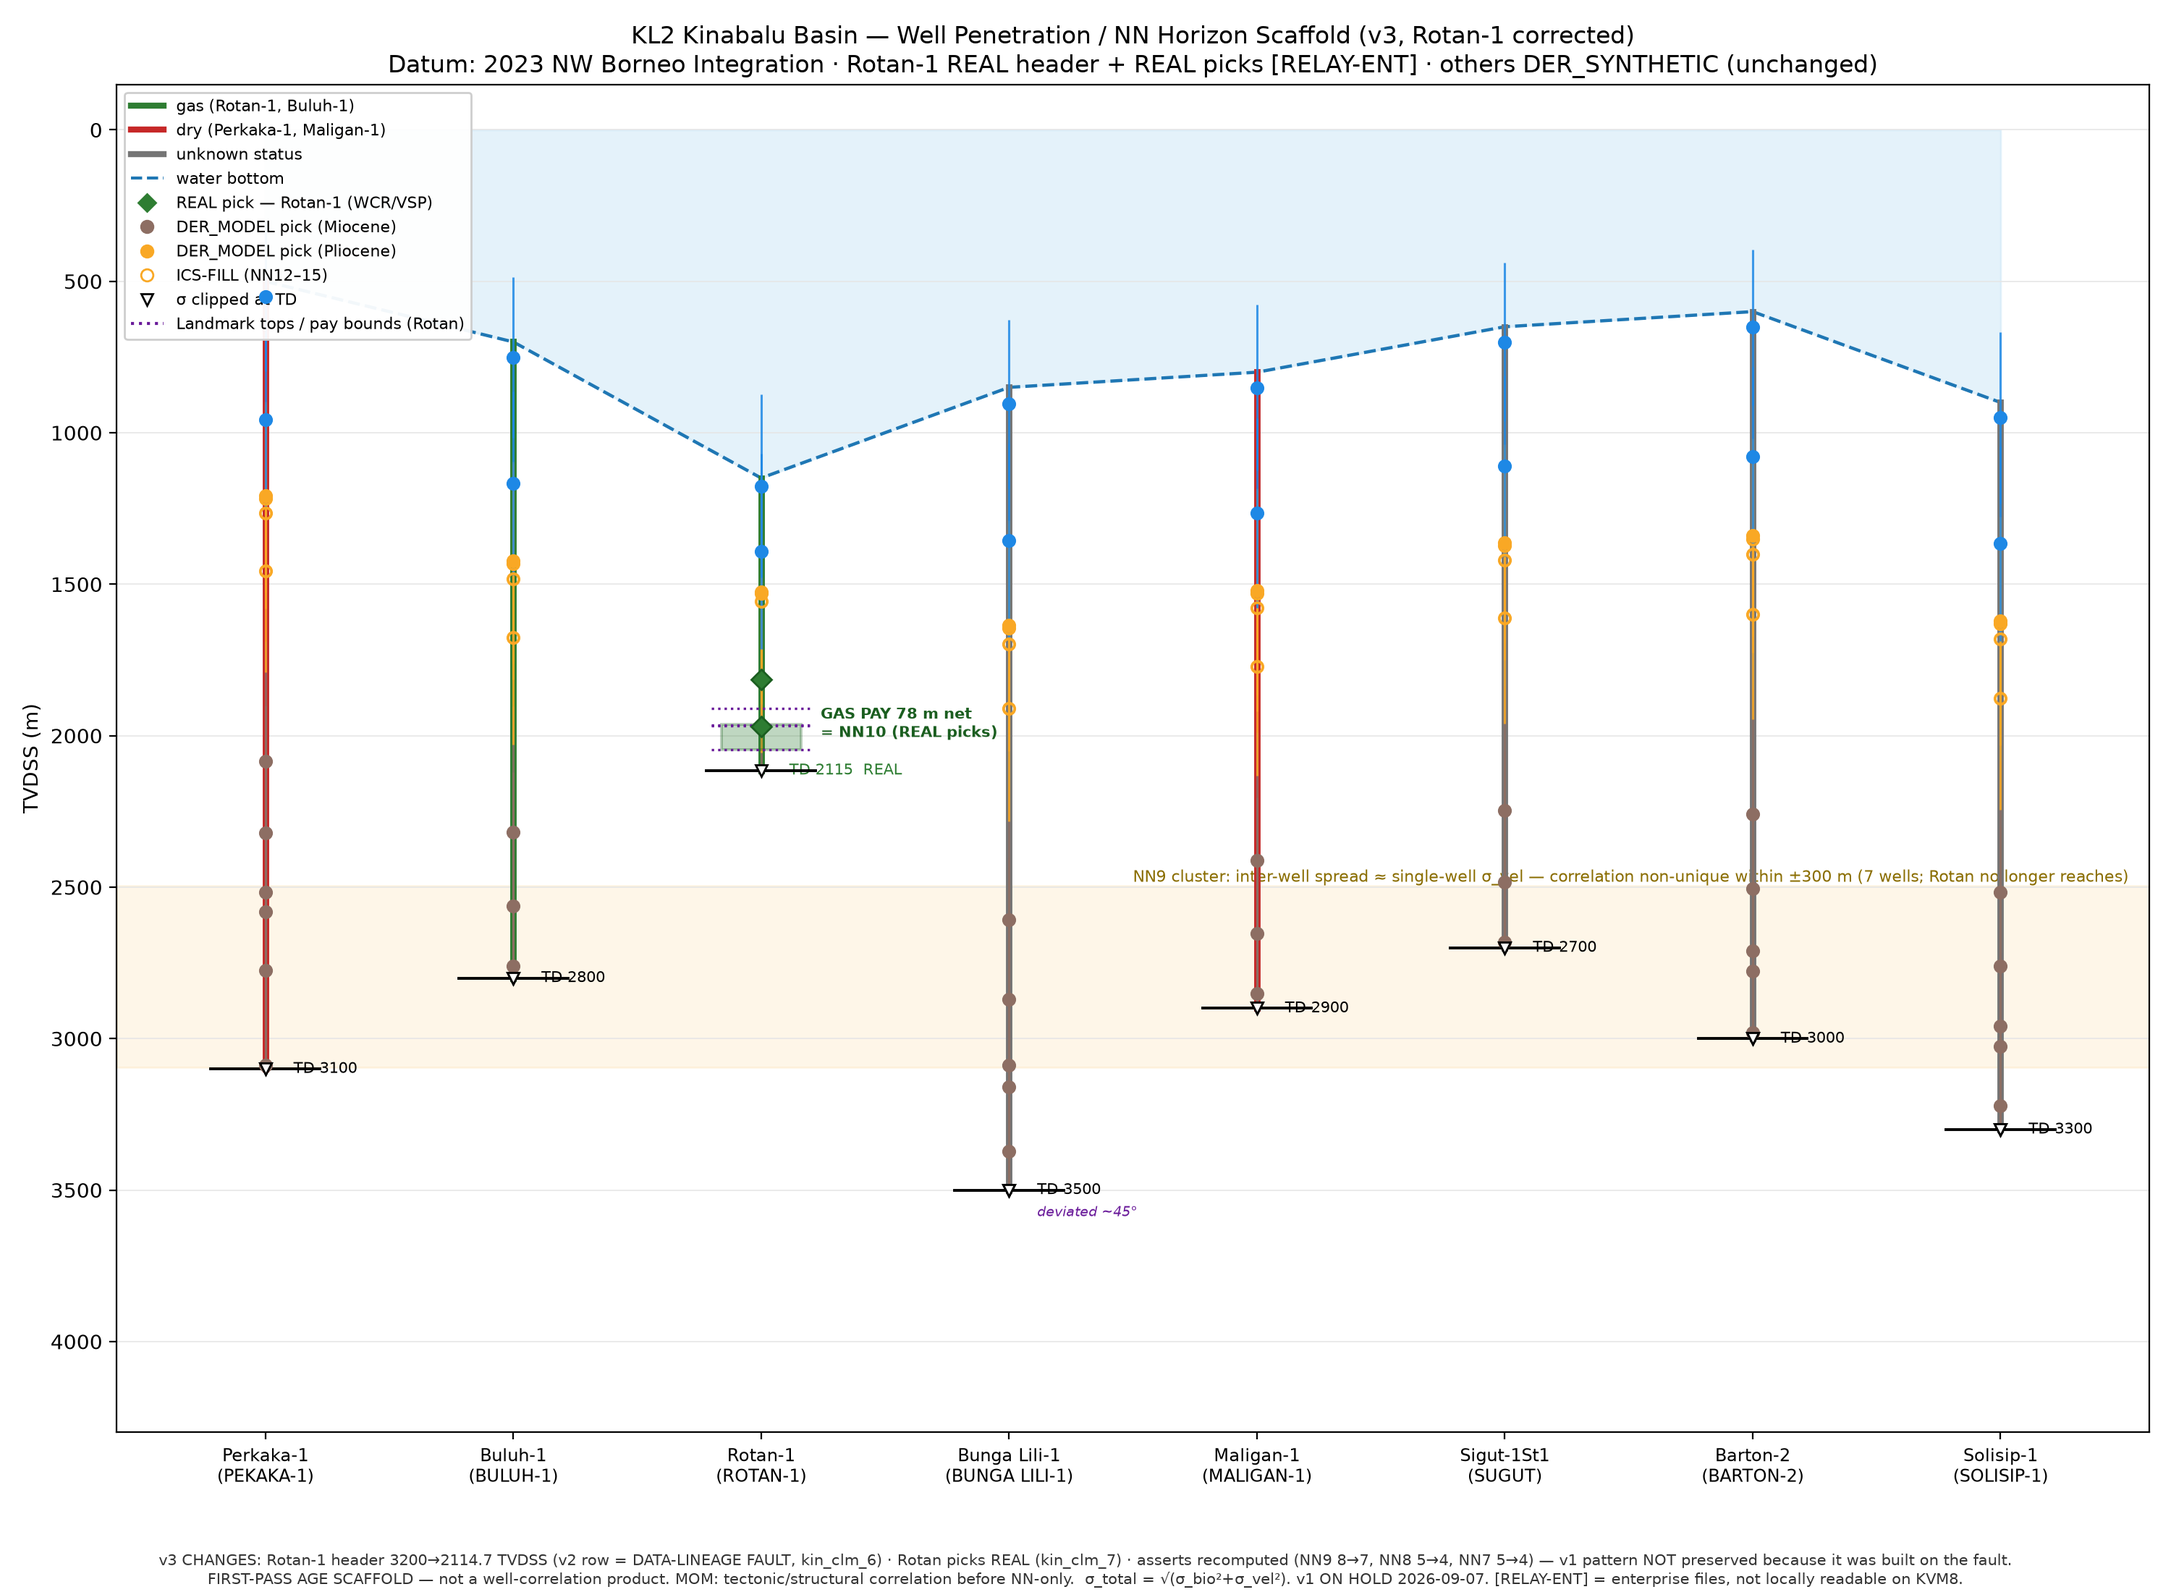
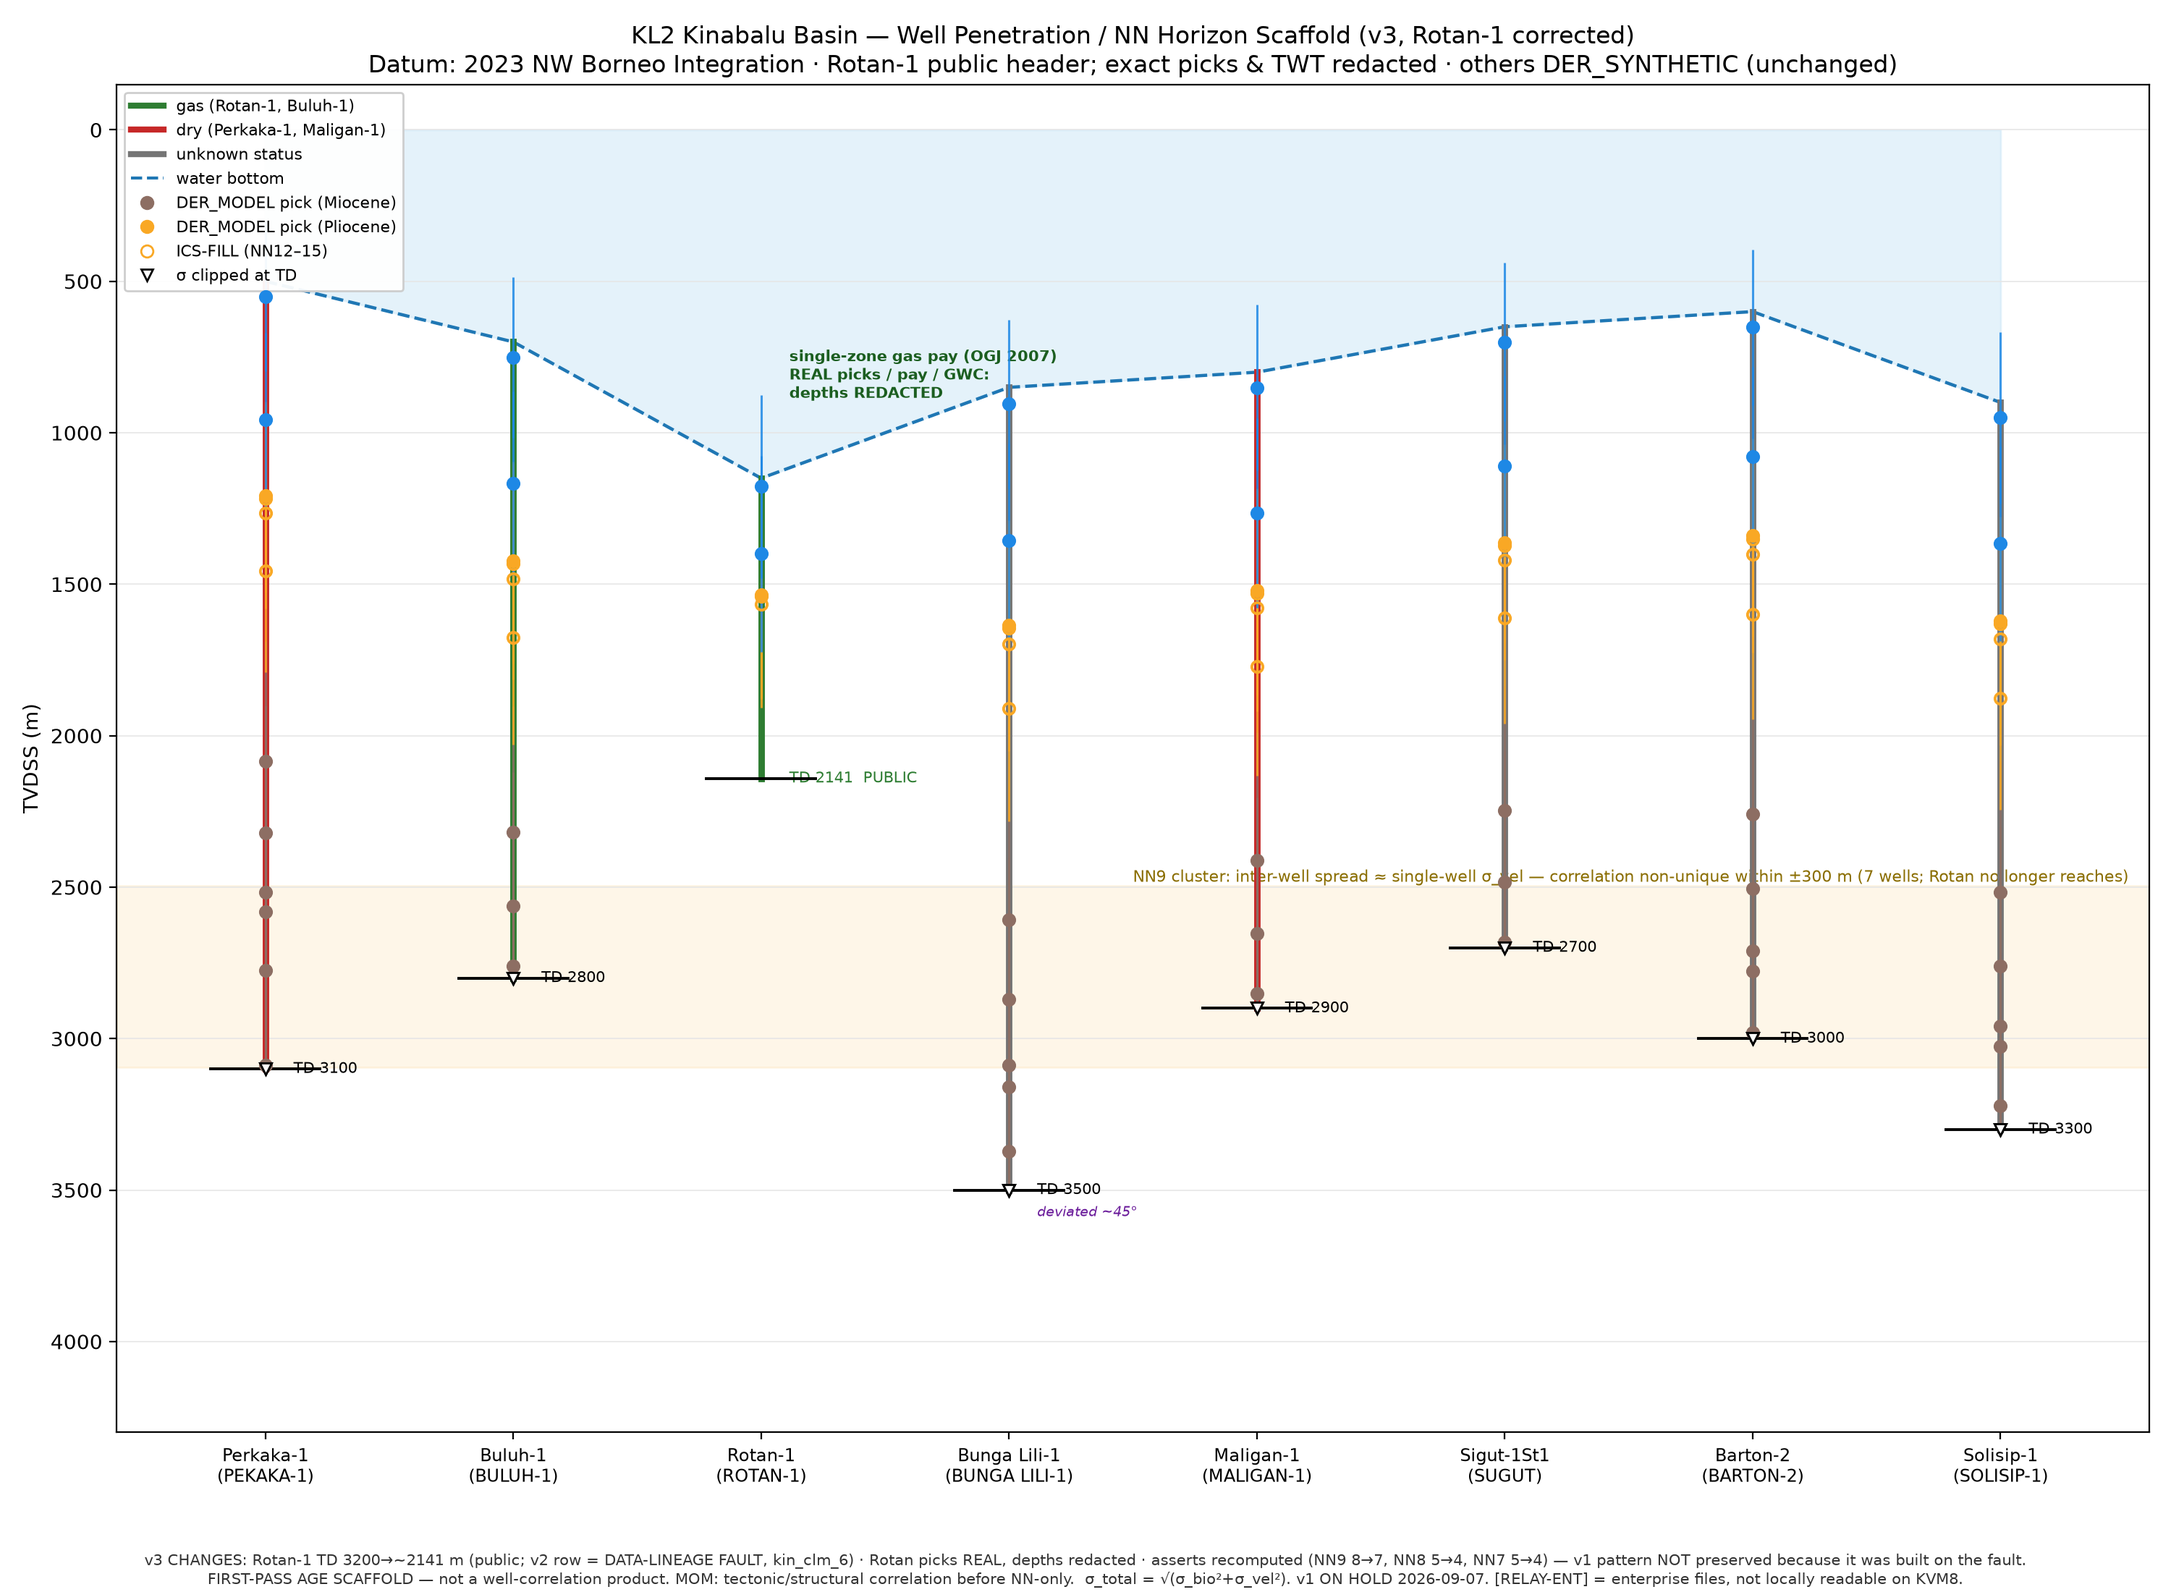
chore(kl2): redact Rotan-1 exact depths and TWT from outputs (AMANAH)
Removes exact pick depths (NN12/NN11/NN10, Landmark tops), top reservoir
and GWC depths, TWT@TD, VSP parameters and the MD->TVDSS factor from the
v3 penetration scaffold; regenerates the v3 xlsx and chart. Rotan-1
seabed/TD kept as public values (Oil & Gas Journal, 5 Feb 2007).

Adds a provenance README (v2 row = known fixture fault; wells_summary.json
and qc_samples.csv are DER_SYNTHETIC fixtures) and a deny-by-default
.gitignore for this folder. Git history intentionally not rewritten
(ARIF decision 2026-10-15).

REPO=geox

diff --git a/outputs/kl2_kinabalu/kl2_kinabalu_penetration_v3.py b/outputs/kl2_kinabalu/kl2_kinabalu_penetration_v3.py
@@ -3,14 +3,14 @@
 KL2 Kinabalu Basin — Well Penetration / NN Horizon Scaffold (v3, Rotan-1 corrected)
 ===================================================================================
 Supersedes v2 (2026-09-07). Changes per F13 enterprise resolution 2026-09-30:
-  1. Rotan-1 header CORRECTED to WCR/Geoservice values [RELAY-ENT]:
-     seabed 1149.4 m TVDSS · TD 2141 MD = 2114.7 TVDSS · TWT@TD 2660 ms.
+  1. Rotan-1 header CORRECTED. Public values only in this repo:
+     water depth 3,773 ft (~1150 m) · TD 7,024 ft (~2141 m MD) — OGJ, 5 Feb 2007.
      v2's 3200 m / 2810 ms / 750 m row was a DATA-LINEAGE FAULT (fixture-encoded).
-  2. Rotan-1 picks UPGRADED DER_MODEL -> REAL [RELAY-ENT]:
-     NN12 base 1836.4 MD · NN11 base 1993.9 MD · NN10 base 2143.4 MD (below TD)
-     · Landmark IVD Kamunsu top 1933.7 · IVC Kinarut top 1990.7
-     · top reservoir 1962.5 TVDSS · GWC 2045.8 TVDSS · VSP tie 0.85 (106 shots).
-     MD->TVDSS x0.98772 (near-vertical; anchored on the TD pair) [DER].
+  2. Rotan-1 picks UPGRADED DER_MODEL -> REAL [RELAY-ENT]: NN12/NN11 base penetrated,
+     NN10 base below TD; Landmark IVD Kamunsu / IVC Kinarut tops; top reservoir; GWC.
+REDACTED 2026-10-15 (ARIF, AMANAH): exact pick depths, TWT@TD, pay/contact depths,
+VSP parameters and the MD->TVDSS factor are held outside this repo. Git history
+was intentionally NOT rewritten.
   3. Penetration asserts RECOMPUTED for v3 (v1 pattern was built on the faulty
      row; forcing v1 would launder the fault). Diff printed, not hidden.
   4. Other 7 wells UNCHANGED — remain DER_SYNTHETIC fixture rows. No new fiction.
@@ -46,13 +46,13 @@ NN_PROV.update({h: "PETRONAS Borneo 2023" for h in NN_BASE_MA if h not in NN_PRO
 ICS_FILL = {"NN12", "NN13", "NN14", "NN15"}
 V1_ANCHORED = {"NN9", "NN8", "NN7", "NN6", "NN5"}
 LON_W, LON_E = 115.90, 117.70
-MD2TVD = 2114.7 / 2141.0
 
 # name, alias, status, td_tvdss, twt_td, seabed, age_td, deviated, td_curve, header_prov
 WELLS = [
     ("Perkaka-1", "PEKAKA-1", "dry", 3100.0, 2700, 500.0, 13.60, False, "measured", "DER_SYNTHETIC fixture"),
     ("Buluh-1", "BULUH-1", "gas", 2800.0, 2480, 700.0, 10.75, False, "SYNTHETIC", "DER_SYNTHETIC fixture"),
-    ("Rotan-1", "ROTAN-1", "gas", 2114.7, 2660, 1149.4, 9.51, False, "measured", "REAL [RELAY-ENT WCR/Geoservice]"),
+    # TD/seabed public (OGJ 2007, MD ~ TVD for a near-vertical well); TWT@TD REDACTED
+    ("Rotan-1", "ROTAN-1", "gas", 2141.0, None, 1150.0, 9.51, False, "measured", "PUBLIC [OGJ 2007]"),
     ("Bunga Lili-1", "BUNGA LILI-1", "unknown", 3500.0, 3050, 850.0, 12.50, True, "measured", "DER_SYNTHETIC fixture"),
     ("Maligan-1", "MALIGAN-1", "dry", 2900.0, 2540, 800.0, 10.80, False, "measured", "DER_SYNTHETIC fixture"),
     ("Sigut-1St1", "SUGUT", "unknown", 2700.0, 2370, 650.0, 10.65, False, "measured", "DER_SYNTHETIC fixture"),
@@ -62,18 +62,12 @@ WELLS = [
 MAX_INCL = {"Bunga Lili-1": 45.0}
 STATUS_COLOR = {"gas": "#2e7d32", "dry": "#c62828", "unknown": "#757575"}
 
-# Rotan-1 REAL picks (MD -> TVDSS) [RELAY-ENT kin_clm_7]
-ROTAN_REAL = {  # horizon: (md, tvdss, flag, age)
-    "NN12": (1836.4, 1836.4 * MD2TVD, "REAL-BIO"),
-    "NN11": (1993.9, 1993.9 * MD2TVD, "REAL-BIO"),
-    "NN10": (2143.4, 2143.4 * MD2TVD, "REAL-BIO"),  # below TD -> not penetrated
+# Rotan-1 REAL picks [RELAY-ENT kin_clm_7] — depths REDACTED 2026-10-15
+ROTAN_REAL = {  # horizon: (flag, penetrated)
+    "NN12": ("REAL-BIO", True),
+    "NN11": ("REAL-BIO", True),
+    "NN10": ("REAL-BIO", False),  # below TD -> not penetrated
 }
-ROTAN_EXTRA = [  # (label, md) — Landmark tops + dynamic datum, plotted as markers
-    ("IVD Kamunsu top", 1933.7),
-    ("IVC Kinarut top", 1990.7),
-    ("top reservoir", 1988.7),
-    ("GWC (flat event)", 2072.1),
-]
 
 
 def horizon_depth(age_ma, td, seabed, age_td):
@@ -109,12 +103,9 @@ for name, alias, status, td, twt_td, seabed, age_td, dev, tdc, hp in WELLS:
     picks[name] = {}
     for h, age in sorted(NN_BASE_MA.items(), key=lambda kv: -kv[1]):
         if name == "Rotan-1" and h in ROTAN_REAL:
-            md, z, flag = ROTAN_REAL[h]
-            pen = z <= td
-            sb, sv = (sigma_bio(age) * 0.4, 150.0 + 0.05 * z) if pen else (None, None)
-            st = math.hypot(sb, sv) if pen else None
-            clipped = bool(pen and z + st > td)
-            picks[name][h] = dict(z=z, pen=pen, sigma_total=st, clipped=clipped, real=True)
+            flag, pen = ROTAN_REAL[h]
+            # depth redacted -> not plotted (pen=False in the plot dict only)
+            picks[name][h] = dict(z=None, pen=False, sigma_total=None, clipped=False, real=True)
             rows.append(
                 dict(
                     well=name,
@@ -122,13 +113,13 @@ for name, alias, status, td, twt_td, seabed, age_td, dev, tdc, hp in WELLS:
                     horizon=f"{h} base",
                     age_ma=age,
                     age_provenance=NN_PROV[h],
-                    pick_flag=flag,
-                    depth_tvdss_m=round(z, 1) if pen else None,
-                    sigma_bio_m=round(sb, 1) if pen else None,
-                    sigma_vel_m=round(sv, 1) if pen else None,
-                    sigma_total_m=round(st, 1) if pen else None,
+                    pick_flag=f"{flag} (depth REDACTED)",
+                    depth_tvdss_m=None,
+                    sigma_bio_m=None,
+                    sigma_vel_m=None,
+                    sigma_total_m=None,
                     penetrated="Y" if pen else "N (below TD)",
-                    sigma_clipped_at_td="Y" if clipped else "",
+                    sigma_clipped_at_td="",
                 )
             )
             continue
@@ -197,14 +188,14 @@ df_prov = pd.DataFrame(
     [
         dict(field="Well roster (8)", classification="REAL", source="KL2V2 keyline (validator memo 2026-09-07)"),
         dict(
-            field="Rotan-1 header (seabed/TD/TWT)",
-            classification="REAL [RELAY-ENT]",
-            source="WCR Rotan-1 via KL2_Wells_Data_Compilation.xlsx WELL_HEADERS/FORMATION_TOPS (Geoservice); VSP tie 0.85",
+            field="Rotan-1 header (seabed/TD)",
+            classification="PUBLIC",
+            source="Oil & Gas Journal, 5 Feb 2007 (Murphy Oil): TD 7,024 ft in 3,773 ft of water; TWT@TD REDACTED",
         ),
         dict(
-            field="Rotan-1 NN picks",
-            classification="REAL [RELAY-ENT]",
-            source="KL2_SOURCE_OF_TRUTH_MASTER.xlsx BIO_ZONE_INTERVALS + KL2V2 Landmark; MD->TVDSS x0.98772 [DER]",
+            field="Rotan-1 NN picks / tops / pay / GWC",
+            classification="REAL [RELAY-ENT] — depths REDACTED 2026-10-15",
+            source="enterprise relay (WCR + biostrat + Landmark); exact values held outside repo",
         ),
         dict(
             field="v2 Rotan-1 row (3200 m)",
@@ -228,8 +219,8 @@ df_prov = pd.DataFrame(
         ),
         dict(
             field="Velocity uncertainty",
-            classification="DER — 200-500 m (Rotan REAL: 150 m + 0.05z, VSP-constrained)",
-            source="NSPW mobile-shale province; VSI VSP 106 shots for Rotan",
+            classification="DER — 200-500 m",
+            source="NSPW mobile-shale province; Rotan VSP details REDACTED",
         ),
         dict(field="v1 artifact", classification="ON HOLD 2026-09-07", source="falsified Neogene datum"),
     ]
@@ -247,19 +238,19 @@ xs = np.arange(len(WELLS))
 names = [w[0] for w in WELLS]
 seabeds = [w[5] for w in WELLS]
 ax.fill_between(xs, 0, seabeds, color="#cfe8f7", alpha=0.55, zorder=1)
-ax.plot(xs, seabeds, "--", color="#1f77b4", lw=1.6, zorder=3, label="water bottom (500–1149 m)")
+ax.plot(xs, seabeds, "--", color="#1f77b4", lw=1.6, zorder=3, label="water bottom (500–1150 m)")
 EPOCH_COLOR = {h: ("#8d6e63" if NN_BASE_MA[h] > 5.33 else "#f9a825" if NN_BASE_MA[h] > 2.58 else "#1e88e5") for h in NN_BASE_MA}
 clipped_wells = []
 for i, (name, alias, status, td, twt_td, seabed, age_td, dev, tdc, hp) in enumerate(WELLS):
     ax.plot([i, i], [seabed, td], "-", color=STATUS_COLOR[status], lw=3.2, zorder=4)
     ax.plot([i - 0.22, i + 0.22], [td, td], "-", color="k", lw=1.4, zorder=5)
     ax.annotate(
-        f"TD {td:.0f}" + ("  REAL" if "REAL" in hp else ""),
+        f"TD {td:.0f}" + ("  PUBLIC" if "PUBLIC" in hp else ""),
         (i, td),
         textcoords="offset points",
         xytext=(14, -2),
         fontsize=7.5,
-        color="#2e7d32" if "REAL" in hp else "k",
+        color="#2e7d32" if "PUBLIC" in hp else "k",
     )
     if dev:
         ax.annotate(
@@ -288,16 +279,17 @@ for i, (name, alias, status, td, twt_td, seabed, age_td, dev, tdc, hp) in enumer
         if p["clipped"]:
             clipped_wells.append(name)
             ax.plot(i, td, marker="v", markersize=6, color="k", markerfacecolor="white", zorder=7)
-# Rotan extras: pay interval + Landmark tops
+# Rotan: pay, tops and REAL picks exist but their depths are redacted (not drawn)
 ri = names.index("Rotan-1")
-ztop = 1962.5
-zbot = 2045.8
-ax.add_patch(plt.Rectangle((ri - 0.16, ztop), 0.32, zbot - ztop, fc="#2e7d32", alpha=0.30, ec="#1b5e20", lw=1.4, zorder=6))
 ax.annotate(
-    "GAS PAY 78 m net\n= NN10 (REAL picks)", (ri + 0.24, (ztop + zbot) / 2), fontsize=7.6, color="#1b5e20", fontweight="bold"
+    "single-zone gas pay (OGJ 2007)\nREAL picks / pay / GWC:\ndepths REDACTED",
+    (ri, seabeds[ri]),
+    textcoords="offset points",
+    xytext=(14, 40),
+    fontsize=7.6,
+    color="#1b5e20",
+    fontweight="bold",
 )
-for lab, md in ROTAN_EXTRA:
-    ax.plot([ri - 0.20, ri + 0.20], [md * MD2TVD, md * MD2TVD], ":", color="#6a1b9a", lw=1.2, zorder=6)
 
 nn9 = [picks[n]["NN9"]["z"] for n in names if picks[n]["NN9"]["pen"]]
 mid = float(np.mean(nn9))
@@ -320,7 +312,7 @@ ax.set_xlim(-0.6, len(WELLS) - 0.4)
 ax.grid(axis="y", color="0.9", lw=0.6)
 ax.set_title(
     "KL2 Kinabalu Basin — Well Penetration / NN Horizon Scaffold (v3, Rotan-1 corrected)\n"
-    "Datum: 2023 NW Borneo Integration · Rotan-1 REAL header + REAL picks [RELAY-ENT] · others DER_SYNTHETIC (unchanged)",
+    "Datum: 2023 NW Borneo Integration · Rotan-1 public header; exact picks & TWT redacted · others DER_SYNTHETIC (unchanged)",
     fontsize=12,
 )
 legend_items = [
@@ -328,16 +320,14 @@ legend_items = [
     Line2D([], [], color="#c62828", lw=3, label="dry (Perkaka-1, Maligan-1)"),
     Line2D([], [], color="#757575", lw=3, label="unknown status"),
     Line2D([], [], color="#1f77b4", ls="--", label="water bottom"),
-    Line2D([], [], marker="D", ls="", color="#2e7d32", label="REAL pick — Rotan-1 (WCR/VSP)"),
     Line2D([], [], marker="o", ls="", color="#8d6e63", label="DER_MODEL pick (Miocene)"),
     Line2D([], [], marker="o", ls="", color="#f9a825", label="DER_MODEL pick (Pliocene)"),
     Line2D([], [], marker="o", ls="", markerfacecolor="none", color="#f9a825", label="ICS-FILL (NN12–15)"),
     Line2D([], [], marker="v", ls="", markerfacecolor="white", color="k", label="σ clipped at TD"),
-    Line2D([], [], ls=":", color="#6a1b9a", label="Landmark tops / pay bounds (Rotan)"),
 ]
 ax.legend(handles=legend_items, loc="upper left", fontsize=8, framealpha=0.95)
 footer = (
-    "v3 CHANGES: Rotan-1 header 3200→2114.7 TVDSS (v2 row = DATA-LINEAGE FAULT, kin_clm_6) · Rotan picks REAL (kin_clm_7) · "
+    "v3 CHANGES: Rotan-1 TD 3200→~2141 m (public; v2 row = DATA-LINEAGE FAULT, kin_clm_6) · Rotan picks REAL, depths redacted · "
     "asserts recomputed (NN9 8→7, NN8 5→4, NN7 5→4) — v1 pattern NOT preserved because it was built on the fault.\n"
     "FIRST-PASS AGE SCAFFOLD — not a well-correlation product. MOM: tectonic/structural correlation before NN-only.  "
     "σ_total = √(σ_bio²+σ_vel²). v1 ON HOLD 2026-09-07. [RELAY-ENT] = enterprise files, not locally readable on KVM8."

diff --git a/outputs/kl2_kinabalu/README.md b/outputs/kl2_kinabalu/README.md
@@ -1,0 +1,12 @@
+# outputs/kl2_kinabalu — provenance
+
+First-pass NN age scaffold for the KL2 well roster. **Not a well-correlation product.**
+
+| File | Status |
+|---|---|
+| `kl2_kinabalu_penetration_v3.py`, `kl2_kinabalu_well_data_v3.xlsx`, `kl2_kinabalu_penetration_chart_v3.png` | Current. Rotan-1 seabed/TD are **public** (Oil & Gas Journal, 5 Feb 2007: TD 7,024 ft in 3,773 ft of water). Exact pick depths, TWT, pay/GWC depths and VSP parameters were **redacted 2026-10-15** (ARIF, AMANAH) and are held outside this repo. |
+| `kl2_kinabalu_penetration_v2.py`, `kl2_kinabalu_well_data_v2.xlsx`, `kl2_kinabalu_penetration_chart_v2.png` | Superseded. Rotan-1 row (3200 m / 2810 ms / 750 m) is a known DATA-LINEAGE FAULT (fixture value, not the well). |
+| `wells_summary.json`, `qc_samples.csv` | **DER_SYNTHETIC fixtures** (from `tests/fixtures/kinabalu_synth.py`). `"type": "measured"` describes the fixture's checkshot style, not real measurements. No value here is real well data. |
+| `_audit_extract.py`, `_canonize_*.py` | Tooling. |
+
+Do not add internal well data (WCR values, picks, TWT, contacts, LAS/SEG-Y) here. The local `.gitignore` blocks new files by default.
